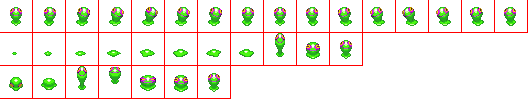
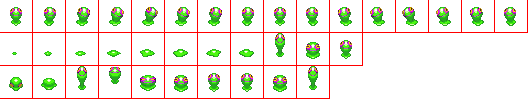
Chu Chu Test Complete

diff --git a/King of Thieves/King of Thieves/Actors/NPC/Enemies/Chuchus/CBaseChuChu.cs b/King of Thieves/King of Thieves/Actors/NPC/Enemies/Chuchus/CBaseChuChu.cs
@@ -18,6 +18,7 @@ namespace King_of_Thieves.Actors.NPC.Enemies.Chuchus
         //popup: come out of the goo pile and start wobbling towards the player
         //attack: jump at the player
 
+        private Vector2 _jumpTo;
 
         public CBaseChuChu(int sight, float fov, int foh, params dropRate[] drops)
             : base(drops)
@@ -43,11 +44,11 @@ namespace King_of_Thieves.Actors.NPC.Enemies.Chuchus
 
 
             //70% chance of the chu chu popping up to chase the player
-            //if (_randNum.NextDouble() <= .7)
-            //{
+            if (_randNum.Next(0, 1000000) <= 10000)
+            {
                 swapImage("chuChuPopUp");
                 _state = "popup";
-            //}
+            }
         }
         public override void animationEnd(object sender)
         {
@@ -62,31 +63,41 @@ namespace King_of_Thieves.Actors.NPC.Enemies.Chuchus
                     _state = "wobble";
                     swapImage("chuChuWobble", false);
                     break;
+
+                case "popdown":
+                    _state = "idle";
+                    swapImage("chuChuIdle", false);
+                    break;
             }
         }
 
         public override void timer0(object sender, System.Timers.ElapsedEventArgs e)
         {
             base.timer0(sender, e);
-            swapImage("chuChuIdle", false);
-            _state = "idle";
+            _state = "popdown";
+            swapImage("chuChuPopDown", false);
+
         }
 
         protected override void chase()
         {
             //moveToPoint((int)Player.CPlayer.glblX, (int)Player.CPlayer.glblY, 3);
             moveToPoint((int)Player.CPlayer.glblX, (int)Player.CPlayer.glblY, .25);
+
+            if (_randNum.Next(0,100000) <= 250)
+            {
+                _jumpTo = new Vector2(Player.CPlayer.glblX, Player.CPlayer.glblY);
+                _state = "attack";
+                swapImage("chuChuHop", false);
+            }
+
             if (MathExt.MathExt.distance(_position, new Vector2(Player.CPlayer.glblX, Player.CPlayer.glblY)) > _hearingRadius)
             {
                 _state = "idle";
-                swapImage("chuChuIdle");
+                startTimer0(1);
 
-                //80% chance of attacking
-                    if (_randNum.NextDouble() <= .8)
-                    {
-                       _state = "attack";
-                       swapImage("chuChuHop", false);
-                    }
+                
+                    
 
             }
 
@@ -97,7 +108,7 @@ namespace King_of_Thieves.Actors.NPC.Enemies.Chuchus
         //override this in the child classes if other functionality is needed
         protected virtual void attack()
         {
-            moveToPoint((int)Player.CPlayer.glblX, (int)Player.CPlayer.glblY, 1);
+            moveToPoint((int)_jumpTo.X, (int)_jumpTo.Y, 1);
         }
 
         public override void update(GameTime gameTime)
@@ -119,6 +130,9 @@ namespace King_of_Thieves.Actors.NPC.Enemies.Chuchus
 
                 case "idle":
                     idle();
+                    break;
+
+                case "popdown":
                     break;
 
             }

diff --git a/King of Thieves/King of Thieves/usr/local/Testbed.cs b/King of Thieves/King of Thieves/usr/local/Testbed.cs
@@ -13,6 +13,7 @@ namespace King_of_Thieves.usr.local
         CComponent perfComp = new CComponent();
         CComponent npcTester = new CComponent();
         Actors.NPC.Enemies.Chuchus.CGreenChuChu green = new Actors.NPC.Enemies.Chuchus.CGreenChuChu(10, 45.0f, 120);
+        Actors.NPC.Enemies.Chuchus.CGreenChuChu[] greenAr = new Actors.NPC.Enemies.Chuchus.CGreenChuChu[3000];
         //private Zone testingzone;
         public Testbed(ref CComponent comp, ref CComponent menu)
         {
@@ -24,14 +25,13 @@ namespace King_of_Thieves.usr.local
         }
         private void Initialize()
         {
-            //testingzone = new Zone();
-            //perfTest = new Actors.Player.CPlayer[700];
-            //for (int i = 0; i < 700; i++)
-            //    perfTest[i] = new Actors.Player.CPlayer();
 
-            //perfComp.root = perfTest[0];
-            //for (int i = 1; i < 700; i++)
-            //    perfComp.actors.Add("performance" + i, perfTest[i]);
+
+            for (int i = 0; i < 3000; i++)
+            {
+                greenAr[i] = new Actors.NPC.Enemies.Chuchus.CGreenChuChu(10, 45.0f, 120);
+                npcTester.actors.Add("green" + i, greenAr[i]);
+            }
 
             npcTester.root = green;
             

diff --git a/King of Thieves/King of Thieves/Actors/NPC/Enemies/Chuchus/CGreenChuChu.cs b/King of Thieves/King of Thieves/Actors/NPC/Enemies/Chuchus/CGreenChuChu.cs
@@ -11,8 +11,8 @@ namespace King_of_Thieves.Actors.NPC.Enemies.Chuchus
         public CGreenChuChu(int sight, float fov, int foh, params dropRate[] drops)
             : base(sight, fov, foh, drops)
         {
-            _position.X = 200;
-            _position.Y = 200;
+            _position.X = _randNum.Next(0,200);
+            _position.Y = _randNum.Next(0, 200);
         }
 
         protected override void _initializeResources()
@@ -22,6 +22,7 @@ namespace King_of_Thieves.Actors.NPC.Enemies.Chuchus
             _imageIndex.Add("chuChuPopUp", new Graphics.CSprite("chuChu:PopUp", Graphics.CTextures.textures["chuChu:PopUp"]));
             _imageIndex.Add("chuChuIdle", new Graphics.CSprite("chuChu:Idle", Graphics.CTextures.textures["chuChu:Idle"]));
             _imageIndex.Add("chuChuHop", new Graphics.CSprite("chuChu:Hop", Graphics.CTextures.textures["chuChu:Hop"]));
+            _imageIndex.Add("chuChuPopDown", new Graphics.CSprite("chuChu:PopDown", Graphics.CTextures.textures["chuChu:PopDown"]));
         }
 
         protected override void _addCollidables()

diff --git a/King of Thieves/King of Thieves/Graphics/CTextures.cs b/King of Thieves/King of Thieves/Graphics/CTextures.cs
@@ -42,10 +42,11 @@ namespace King_of_Thieves.Graphics
             textures.Add("GerudoSword:SwingDown", new CTextureAtlas("Swords", 64, 64, 1, "0:0", "7:0", 55));
             textures.Add("GerudoSword:SwingUp", new CTextureAtlas("Swords", 64, 64, 1, "0:1", "7:1", 55));
             textures.Add("GerudoSword:SwingRight", new CTextureAtlas("Swords", 64, 64, 1, "0:2", "7:2", 55));
-            textures.Add("chuChu:Wobble", new CTextureAtlas("chuchuGreen", 32, 32, 1, "0:0", "15:0", 5));
+            textures.Add("chuChu:Wobble", new CTextureAtlas("chuchuGreen", 32, 32, 1, "0:0", "15:0", 12));
             textures.Add("chuChu:Idle", new CTextureAtlas("chuchuGreen", 32, 32, 1, "0:1", "7:1", 5));
             textures.Add("chuChu:PopUp", new CTextureAtlas("chuchuGreen", 32, 32, 1, "8:1", "10:1", 5));
             textures.Add("chuChu:Hop", new CTextureAtlas("chuchuGreen", 32, 32, 1, "0:2", "6:2", 7));
+            textures.Add("chuChu:PopDown", new CTextureAtlas("chuchuGreen", 32, 32, 1, "7:2", "9:2", 5));
         }
 
         private static void _prepareTextures()

diff --git a/King of Thieves/King of Thieves/Actors/CActor.cs b/King of Thieves/King of Thieves/Actors/CActor.cs
@@ -123,7 +123,7 @@ namespace King_of_Thieves.Actors
 
         public void startTimer0(int ticks)
         {
-            _timer0 = new Timer(ticks * 100);
+            _timer0 = new Timer(ticks * 1000);
             _timer0.Elapsed += new ElapsedEventHandler(timer0);
 
             _timer0.Enabled = true;
